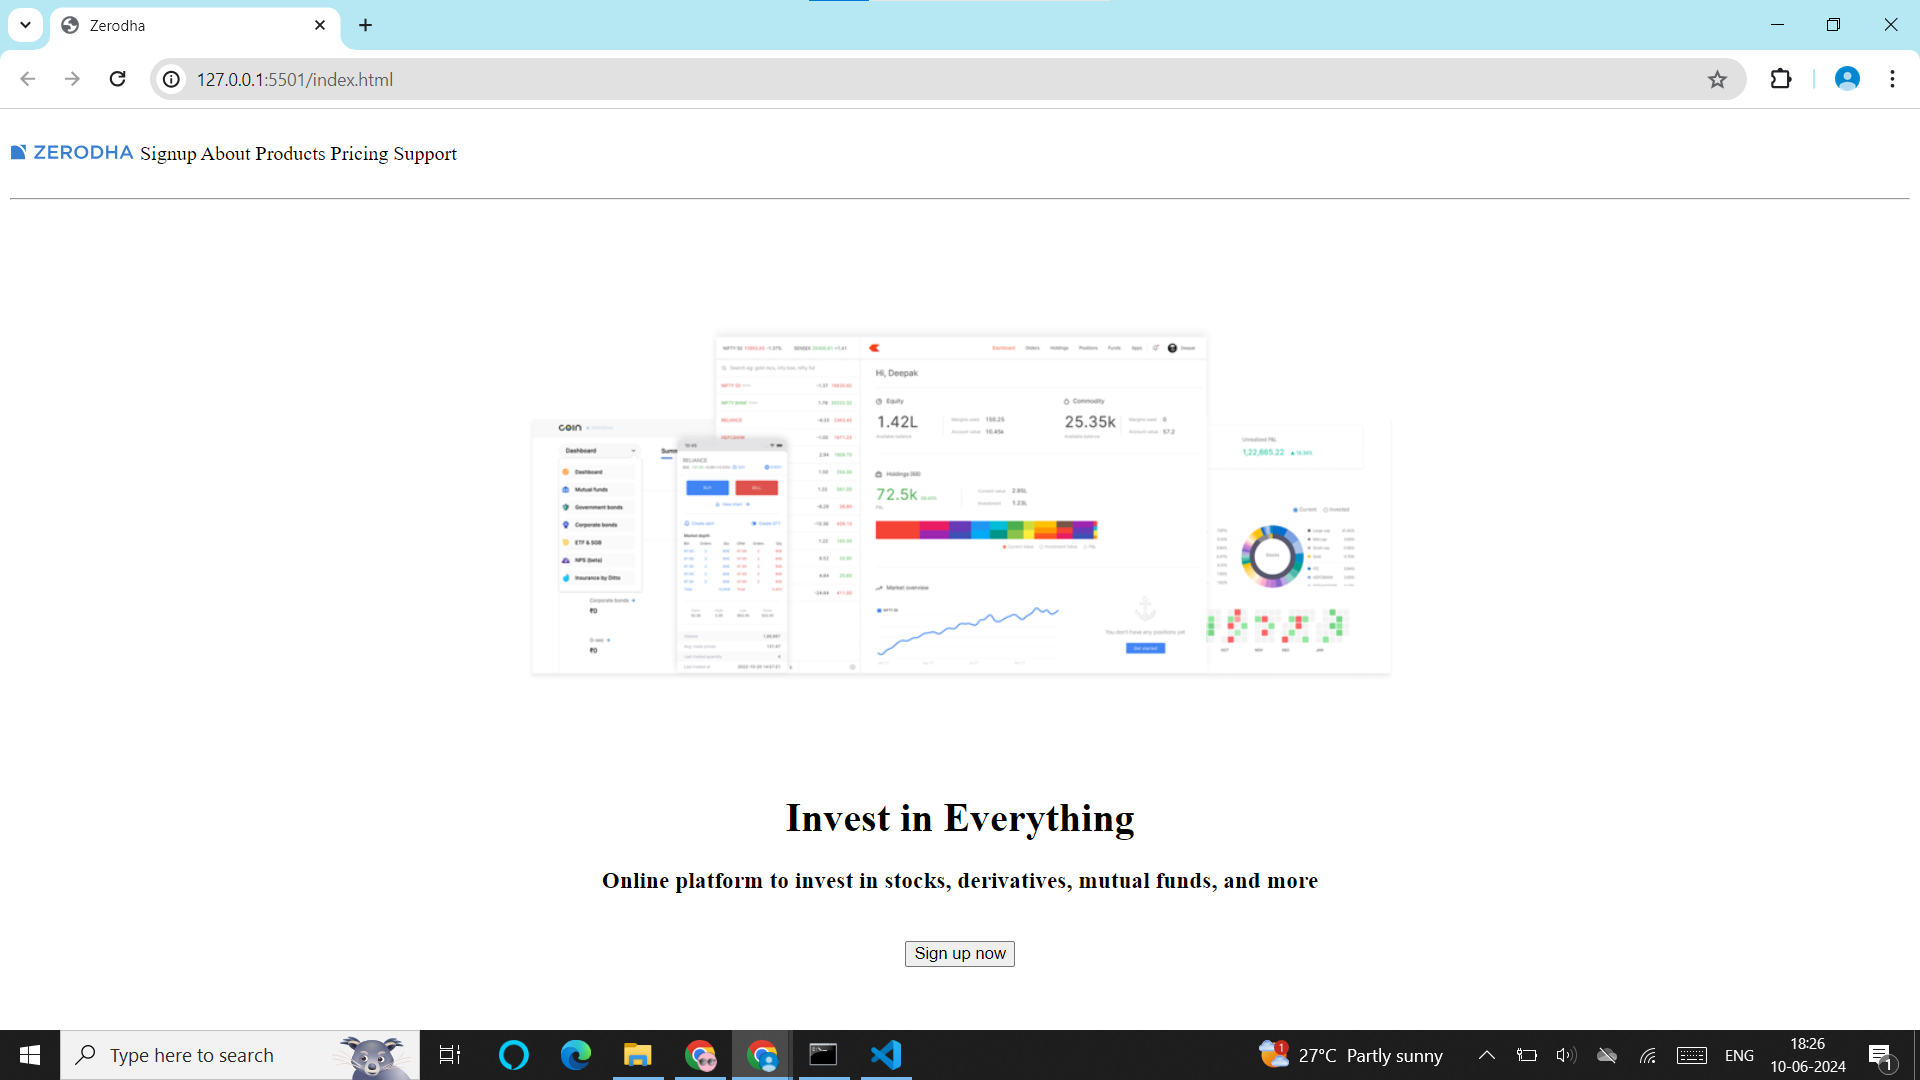
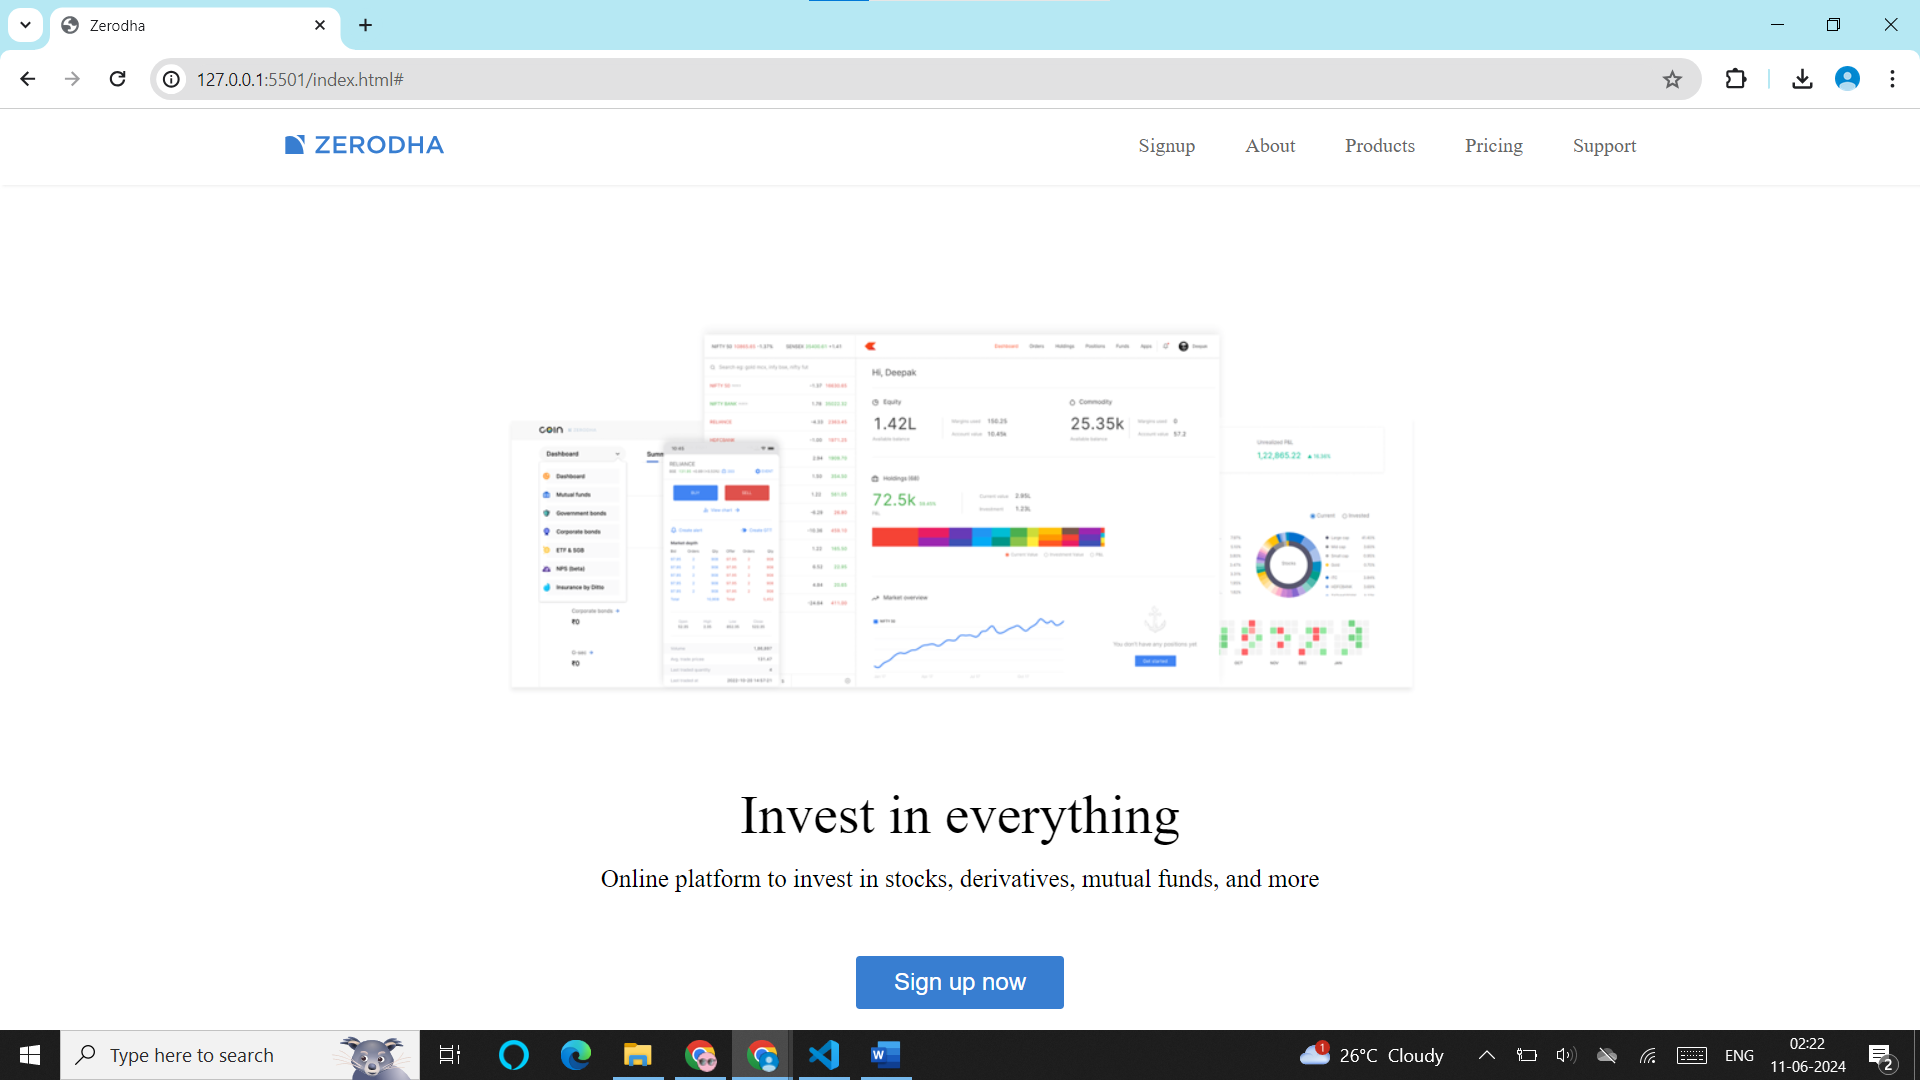
adding css

diff --git a/index.html b/index.html
@@ -4,25 +4,34 @@
     <meta charset="UTF-8">
     <meta name="viewport" content="width=device-width, initial-scale=1.0">
     <title>Zerodha</title>
+    <link rel="stylesheet" href="styles.css">
 </head>
 <body>
-    <div>
-        <div>
-            <br>
-            <img width="100" src="./images/logo.svg" alt="logo">
-            Signup About Products Pricing Support
+    <div class="container">
+        <div class="nav-bar-container">
+            <div class="logo">
+                <img src="./images/logo.svg" alt="logo">
+            </div>
+            <div class="nav">
+                <a href="#">Signup</a>
+                <a href="#">About</a>
+                <a href="#">Products</a>
+                <a href="#">Pricing</a>
+                <a href="#">Support</a>
+            </div>
         </div>
-        <br>
-        <hr>
-        <br><br><br><br>
-        <center>
-            <img width="750" src="./images/landing.png" alt="landing page photo">
-            <br><br><br><br>
-            <h1>Invest in Everything</h1>
-            <h3>Online platform to invest in stocks, derivatives, mutual funds, and more</h3>
-            <br>
-            <button>Sign up now</button>
-        </center>
+        <div class="content">
+            <img src="./images/landing.png" alt="landing page photo">
+            <div class="one">
+                <h1>Invest in everything</h1>
+            </div>
+            <div class="two">
+                <h5>Online platform to invest in stocks, derivatives, mutual funds, and more</h5>
+            </div>
+            <div>
+                <button>Sign up now</button>
+            </div>  
+        </div>
     </div>
 </body>
 </html>

diff --git a/styles.css b/styles.css
@@ -1,0 +1,72 @@
+*{
+    padding: 0;
+    margin: 0;
+}
+
+.container{
+    display: flex;
+    flex-direction: column;
+    align-items: center;
+}
+
+.nav-bar-container{
+    display: flex;
+    justify-content: space-around;
+    width: 100%;
+    padding: 20px 0px;
+    box-shadow: 2px 1px 2px #eee;
+}
+
+.logo img{
+    width: 130px;
+}
+
+.nav{
+    display: flex;
+    gap: 40px;
+    margin-left: 100px;
+}
+
+.nav a{
+    text-decoration: none;
+    color: inherit;
+    font-weight: 400;
+    color: rgb(102, 102, 102);
+}
+
+.content{
+    display: flex;
+    flex-direction: column;
+    align-items: center;
+    margin-top: 90px;
+}
+
+.content img{
+    width: 788px;
+}
+
+h1{
+    font-family: Inter, serif;
+    font-size: 44px;
+    font-weight: 500;
+    margin-top: 60px;
+    margin-bottom: 15px;
+}
+
+h5{
+    font-family: Inter, serif;
+    font-size: 20px;
+    font-weight: 400;
+    margin-bottom: 50px;
+}
+
+
+button{
+    background-color: rgb(56, 126, 209);
+    border-radius: 3px;
+    padding: 10px 30px;
+    color: white;
+    font-weight: 500;
+    border: none;
+    font-size: 19.2px;
+}
